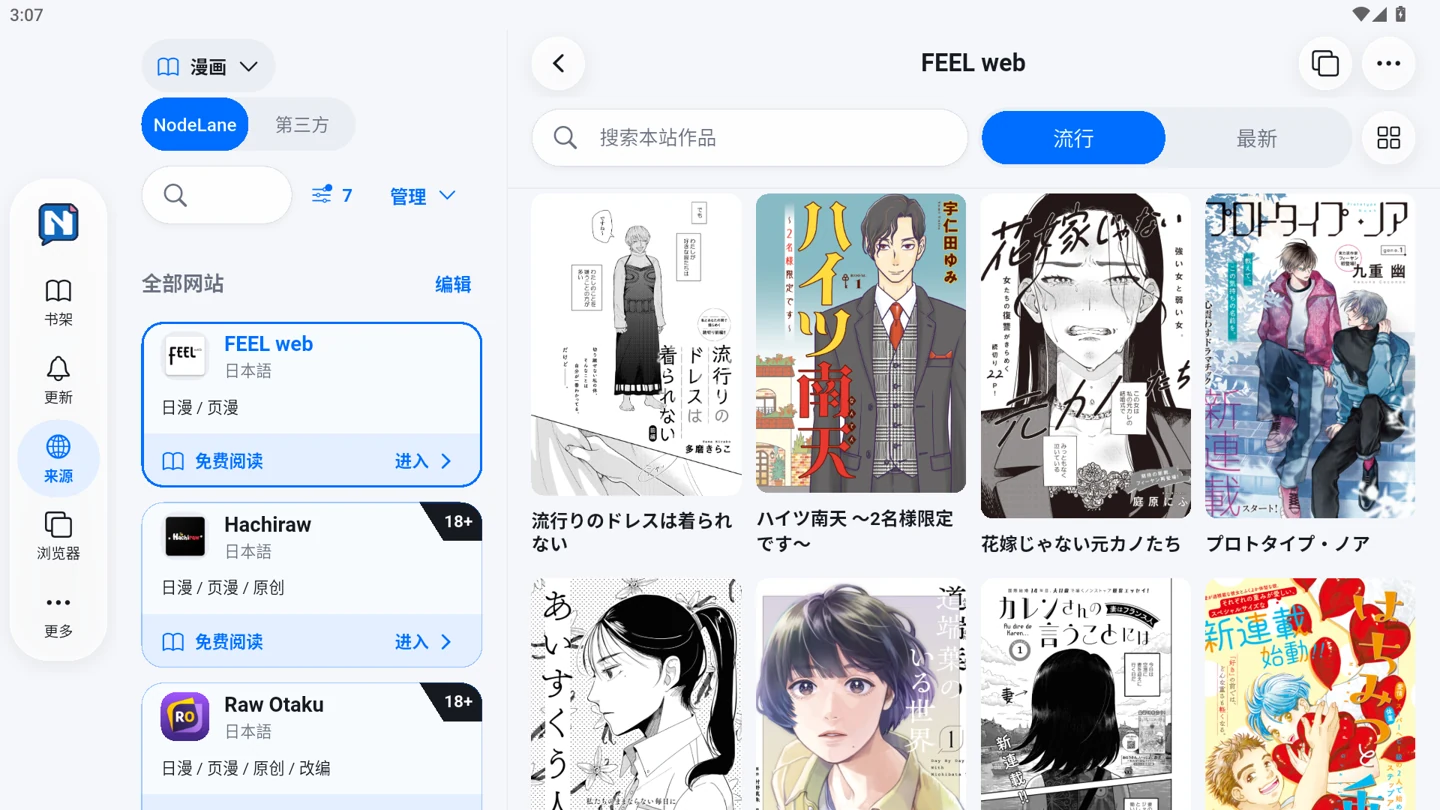
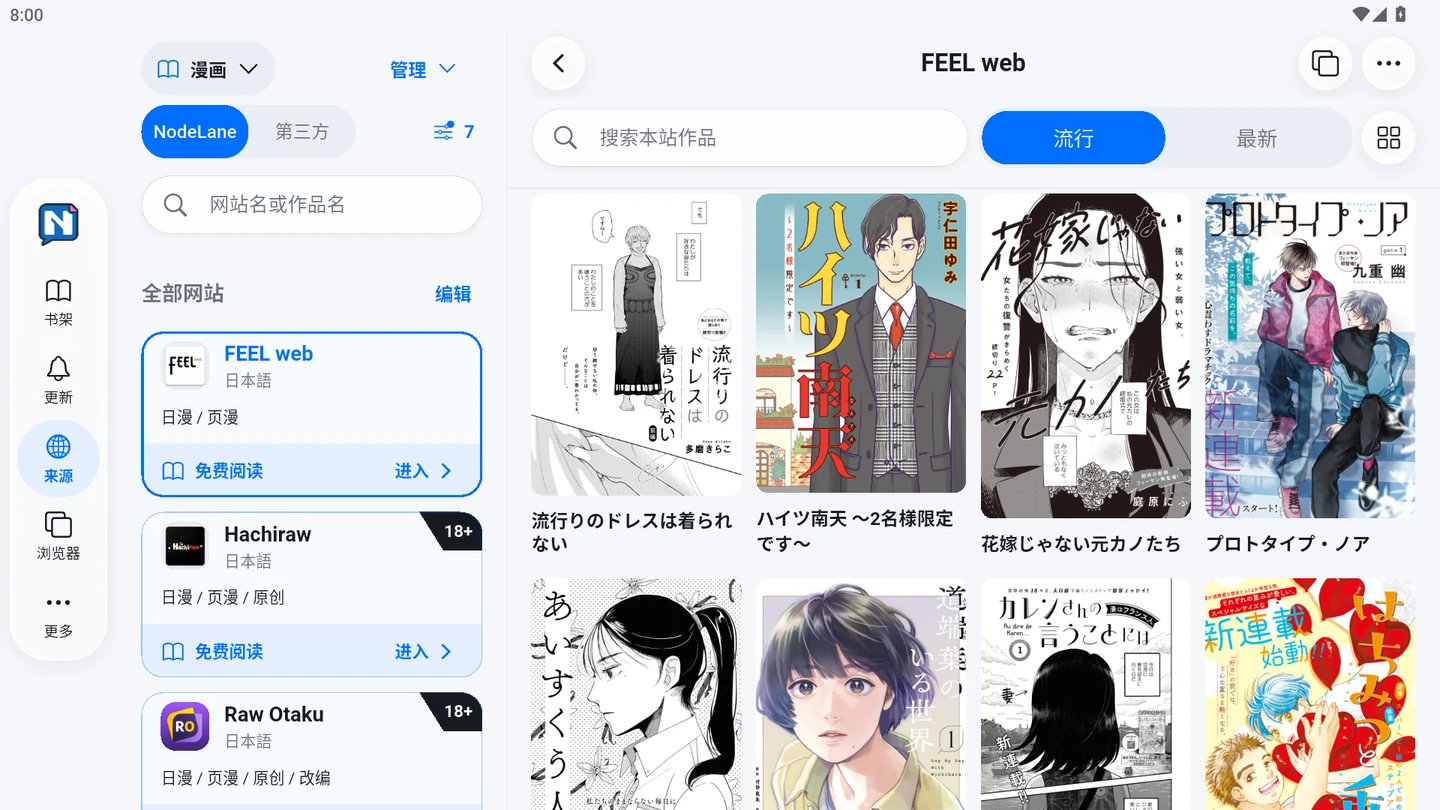
fix(browse): give the tablet directory search its own row

diff --git a/lib/modules/browse/mobile_sources_screen.dart b/lib/modules/browse/mobile_sources_screen.dart
@@ -42,6 +42,7 @@ import 'package:mangayomi/theme/nodelane_icons.dart';
 import 'package:mangayomi/theme/nodelane_tokens.dart';
 import 'package:mangayomi/theme/nodelane_motion.dart';
 import 'package:mangayomi/modules/widgets/nodelane_bubble.dart';
+import 'package:mangayomi/utils/extensions/build_context_extensions.dart';
 import 'package:mangayomi/utils/platform_utils.dart';
 import 'package:mangayomi/providers/l10n_providers.dart';
 
@@ -60,6 +61,8 @@ class _MobileSourcesScreenState extends ConsumerState<MobileSourcesScreen>
   final _requestEdits = PageStorageBucket();
   final _scroll = ScrollController();
   final _grids = List.generate(3, (_) => GlobalKey());
+  // Open bubbles keep their anchors when the toolbar reflows.
+  final _filterAnchor = GlobalKey(), _menuAnchor = GlobalKey();
   final _returnTiles = ValueNotifier<Map<int, (int, int)>>(const {});
   int _openIntent = 0;
   int? _anchor;
@@ -708,6 +711,7 @@ class _MobileSourcesScreenState extends ConsumerState<MobileSourcesScreen>
     List<ItemType> types,
     DirectoryFilters filters, {
     required int? count,
+    required bool compact,
   }) {
     final l10n = context.l10n;
     final media = LibraryMediaButton(
@@ -724,18 +728,58 @@ class _MobileSourcesScreenState extends ConsumerState<MobileSourcesScreen>
       ],
       onChanged: (value) => _switchDirectory(type, value == 1),
     );
+    final filter = Builder(
+      key: _filterAnchor,
+      builder: (anchor) => Tooltip(
+        message: l10n.filter,
+        child: Semantics(
+          liveRegion: true,
+          label: count == null
+              ? l10n.filter
+              : '${l10n.filter}, ${l10n.search_result_count(count)}',
+          expanded: _filterBubble,
+          value: filters.isEmpty ? null : filters.summary(l10n, type),
+          child: TextButton.icon(
+            style: TextButton.styleFrom(
+              minimumSize: const Size.square(NodeLaneTokens.minTapTarget),
+              padding: const EdgeInsets.symmetric(
+                horizontal: NodeLaneTokens.space4,
+              ),
+              foregroundColor: _filterBubble || filters.isNotEmpty
+                  ? NodeLaneTokens.of(context).accent
+                  : NodeLaneTokens.of(context).ink,
+            ),
+            icon: Badge(
+              isLabelVisible: filters.isNotEmpty,
+              child: Icon(NodeLaneIcons.of(context).adjustments),
+            ),
+            label: ExcludeSemantics(child: Text(count?.toString() ?? '…')),
+            onPressed: () => _directoryFilters(anchor),
+          ),
+        ),
+      ),
+    );
+    final menu = SourceDirectoryMenu(
+      key: _menuAnchor,
+      type: type,
+      onOpened: () => _openIntent++,
+      onSelected: _manage,
+    );
     final navigation = Wrap(
       spacing: NodeLaneTokens.space8,
       runSpacing: NodeLaneTokens.space4,
       crossAxisAlignment: WrapCrossAlignment.center,
+      alignment: compact ? WrapAlignment.spaceBetween : WrapAlignment.start,
       children: [
         media,
+        if (compact) menu,
         SizedBox(
           width:
               NodeLaneTokens.catalogTabsWidth *
               (MediaQuery.textScalerOf(context).scale(15) / 15).clamp(1, 2),
           child: sections,
         ),
+        if (compact) filter,
       ],
     );
     return Material(
@@ -756,47 +800,12 @@ class _MobileSourcesScreenState extends ConsumerState<MobileSourcesScreen>
                   onChanged: (_) => setState(() {}),
                 ),
               ),
-              const SizedBox(width: NodeLaneTokens.space8),
-              Builder(
-                builder: (anchor) => Tooltip(
-                  message: l10n.filter,
-                  child: Semantics(
-                    liveRegion: true,
-                    label: count == null
-                        ? l10n.filter
-                        : '${l10n.filter}, ${l10n.search_result_count(count)}',
-                    expanded: _filterBubble,
-                    value: filters.isEmpty ? null : filters.summary(l10n, type),
-                    child: TextButton.icon(
-                      style: TextButton.styleFrom(
-                        minimumSize: const Size.square(
-                          NodeLaneTokens.minTapTarget,
-                        ),
-                        padding: const EdgeInsets.symmetric(
-                          horizontal: NodeLaneTokens.space4,
-                        ),
-                        foregroundColor: _filterBubble || filters.isNotEmpty
-                            ? NodeLaneTokens.of(context).accent
-                            : NodeLaneTokens.of(context).ink,
-                      ),
-                      icon: Badge(
-                        isLabelVisible: filters.isNotEmpty,
-                        child: Icon(NodeLaneIcons.of(context).adjustments),
-                      ),
-                      label: ExcludeSemantics(
-                        child: Text(count?.toString() ?? '…'),
-                      ),
-                      onPressed: () => _directoryFilters(anchor),
-                    ),
-                  ),
-                ),
-              ),
-              const SizedBox(width: NodeLaneTokens.space4),
-              SourceDirectoryMenu(
-                type: type,
-                onOpened: () => _openIntent++,
-                onSelected: _manage,
-              ),
+              if (!compact) ...[
+                const SizedBox(width: NodeLaneTokens.space8),
+                filter,
+                const SizedBox(width: NodeLaneTokens.space4),
+                menu,
+              ],
             ],
           ),
         ),
@@ -969,6 +978,10 @@ class _MobileSourcesScreenState extends ConsumerState<MobileSourcesScreen>
                               types,
                               filters,
                               count: waitingForDirectory ? null : all.length,
+                              compact:
+                                  box.maxWidth <=
+                                  NodeLaneTokens.tabletSupportingWidth *
+                                      context.paneTextScale,
                             ),
                           ),
                         if (all.isEmpty)

diff --git a/test/modules/browse/mobile_search_navigation_test.dart b/test/modules/browse/mobile_search_navigation_test.dart
@@ -515,8 +515,14 @@ void main() {
         final site = find.byType(MangaHomeScreen),
             book = find.byType(MangaReaderDetail);
         expect(site, findsNothing);
-        await tester.enterText(find.byType(TextField), 'Pane');
-        await tester.tap(find.byTooltip('Filter'));
+        final search = find.descendant(
+          of: directory,
+          matching: find.byType(TextField),
+        );
+        final filter = find.byTooltip('Filter');
+        final field = tester.state(search);
+        await tester.enterText(search, 'Pane');
+        await tester.tap(filter);
         await tester.pumpAndSettle();
         await tester.tap(find.widgetWithText(FilterChip, 'English'));
         await tester.binding.handlePopRoute();
@@ -543,6 +549,18 @@ void main() {
         await tester.pumpAndSettle();
         expect(cells.evaluate().length, lessThan(beforePressure));
         expect(row.hitTestable(), findsOneWidget);
+        await tester.drag(directory, const Offset(0, 240));
+        await tester.pumpAndSettle();
+        final sidebarSearch = tester.getRect(search.hitTestable());
+        expect(sidebarSearch.left, tester.getRect(card).left);
+        expect(sidebarSearch.right, tester.getRect(card).right);
+        for (final action in [filter, find.text('Manage')]) {
+          expect(
+            tester.getRect(action).bottom,
+            lessThanOrEqualTo(sidebarSearch.top),
+          );
+        }
+        expect(tester.state(search), same(field));
         final siteState = tester.state(site);
         final siteHeight = tester.getSize(site).height;
         final draft = find.descendant(

diff --git a/docs/MOBILE_UI_DESIGN.md b/docs/MOBILE_UI_DESIGN.md
@@ -128,7 +128,8 @@ MuMu 运行截图：[目录筛选气泡](images/android-tablet-source-filters.we
 - 网站卡片显示名称、语言、分类、收费底带及独立 18+ 切角。标准字号高 136，随窄屏／大字号统一增高；操作位承载安装、更新、重试和常用管理。缺资料保持未标注，成人标记只读取 `isNsfw`。
 - 「NodeLane／第三方」只切换目录。「管理」气泡内可查看、刷新仓库，切换可见性或添加仓库；地址识别、去重与错误重试保留在当前步骤。批量操作直接作用于目录，创建扩展只在开发者模式提供。官方网站缺失插件时优先安装；第三方安装／更新失败保留旧版本。
 - 网站图标复用 `NodeLaneWebsiteIcon` 与现有网络图片分支的 30 天磁盘缓存，空地址／失败显示占位，不自动发现 favicon。
-- 搜索框旁的筛选按钮显示结果数，有条件时加圆点。点它打开气泡，按语言、地区、形式、创作或收费筛选，点选立即更新目录与计数。同组选项取并集，不同组取交集。条件摘要与「清空」在气泡内；清空恢复默认语言和无分类限制，保留关键词。关键词和筛选按媒体、官方／第三方分别记忆。
+- 目录收窄到侧栏宽度时，搜索框在工具区下方独占一行，与卡片两侧对齐；媒体、管理、分区切换和筛选在上方按可用空间换行。宽目录的筛选和管理仍在搜索框旁。
+- 筛选按钮显示结果数，有条件时加圆点。点它打开气泡，按语言、地区、形式、创作或收费筛选，点选立即更新目录与计数。同组选项取并集，不同组取交集。条件摘要与「清空」在气泡内；清空恢复默认语言和无分类限制，保留关键词。关键词和筛选按媒体、官方／第三方分别记忆。
 - 首页整行显示网站卡片，宽度够时两列。点网站后，宽屏左列保留目录、右列展示站内作品；窄屏把站内作品接在目录下方。点封面在下一行展开详情，页面滚到新层，父列表不缩短。沿站内或详情标题栏向下拖可回看上层，列表内仍可滚动和下拉刷新；按系统或标题栏返回键才收回最后一层。转屏保留当前作品，返回恢复站内草稿、目录条件及原滚动位置。
 - 跨来源搜索仅选择已安装且允许显示的来源。来源详情按身份、动态设置、高级操作排列；Cookie、卸载和开发者工具保留原确认及条件。
 
